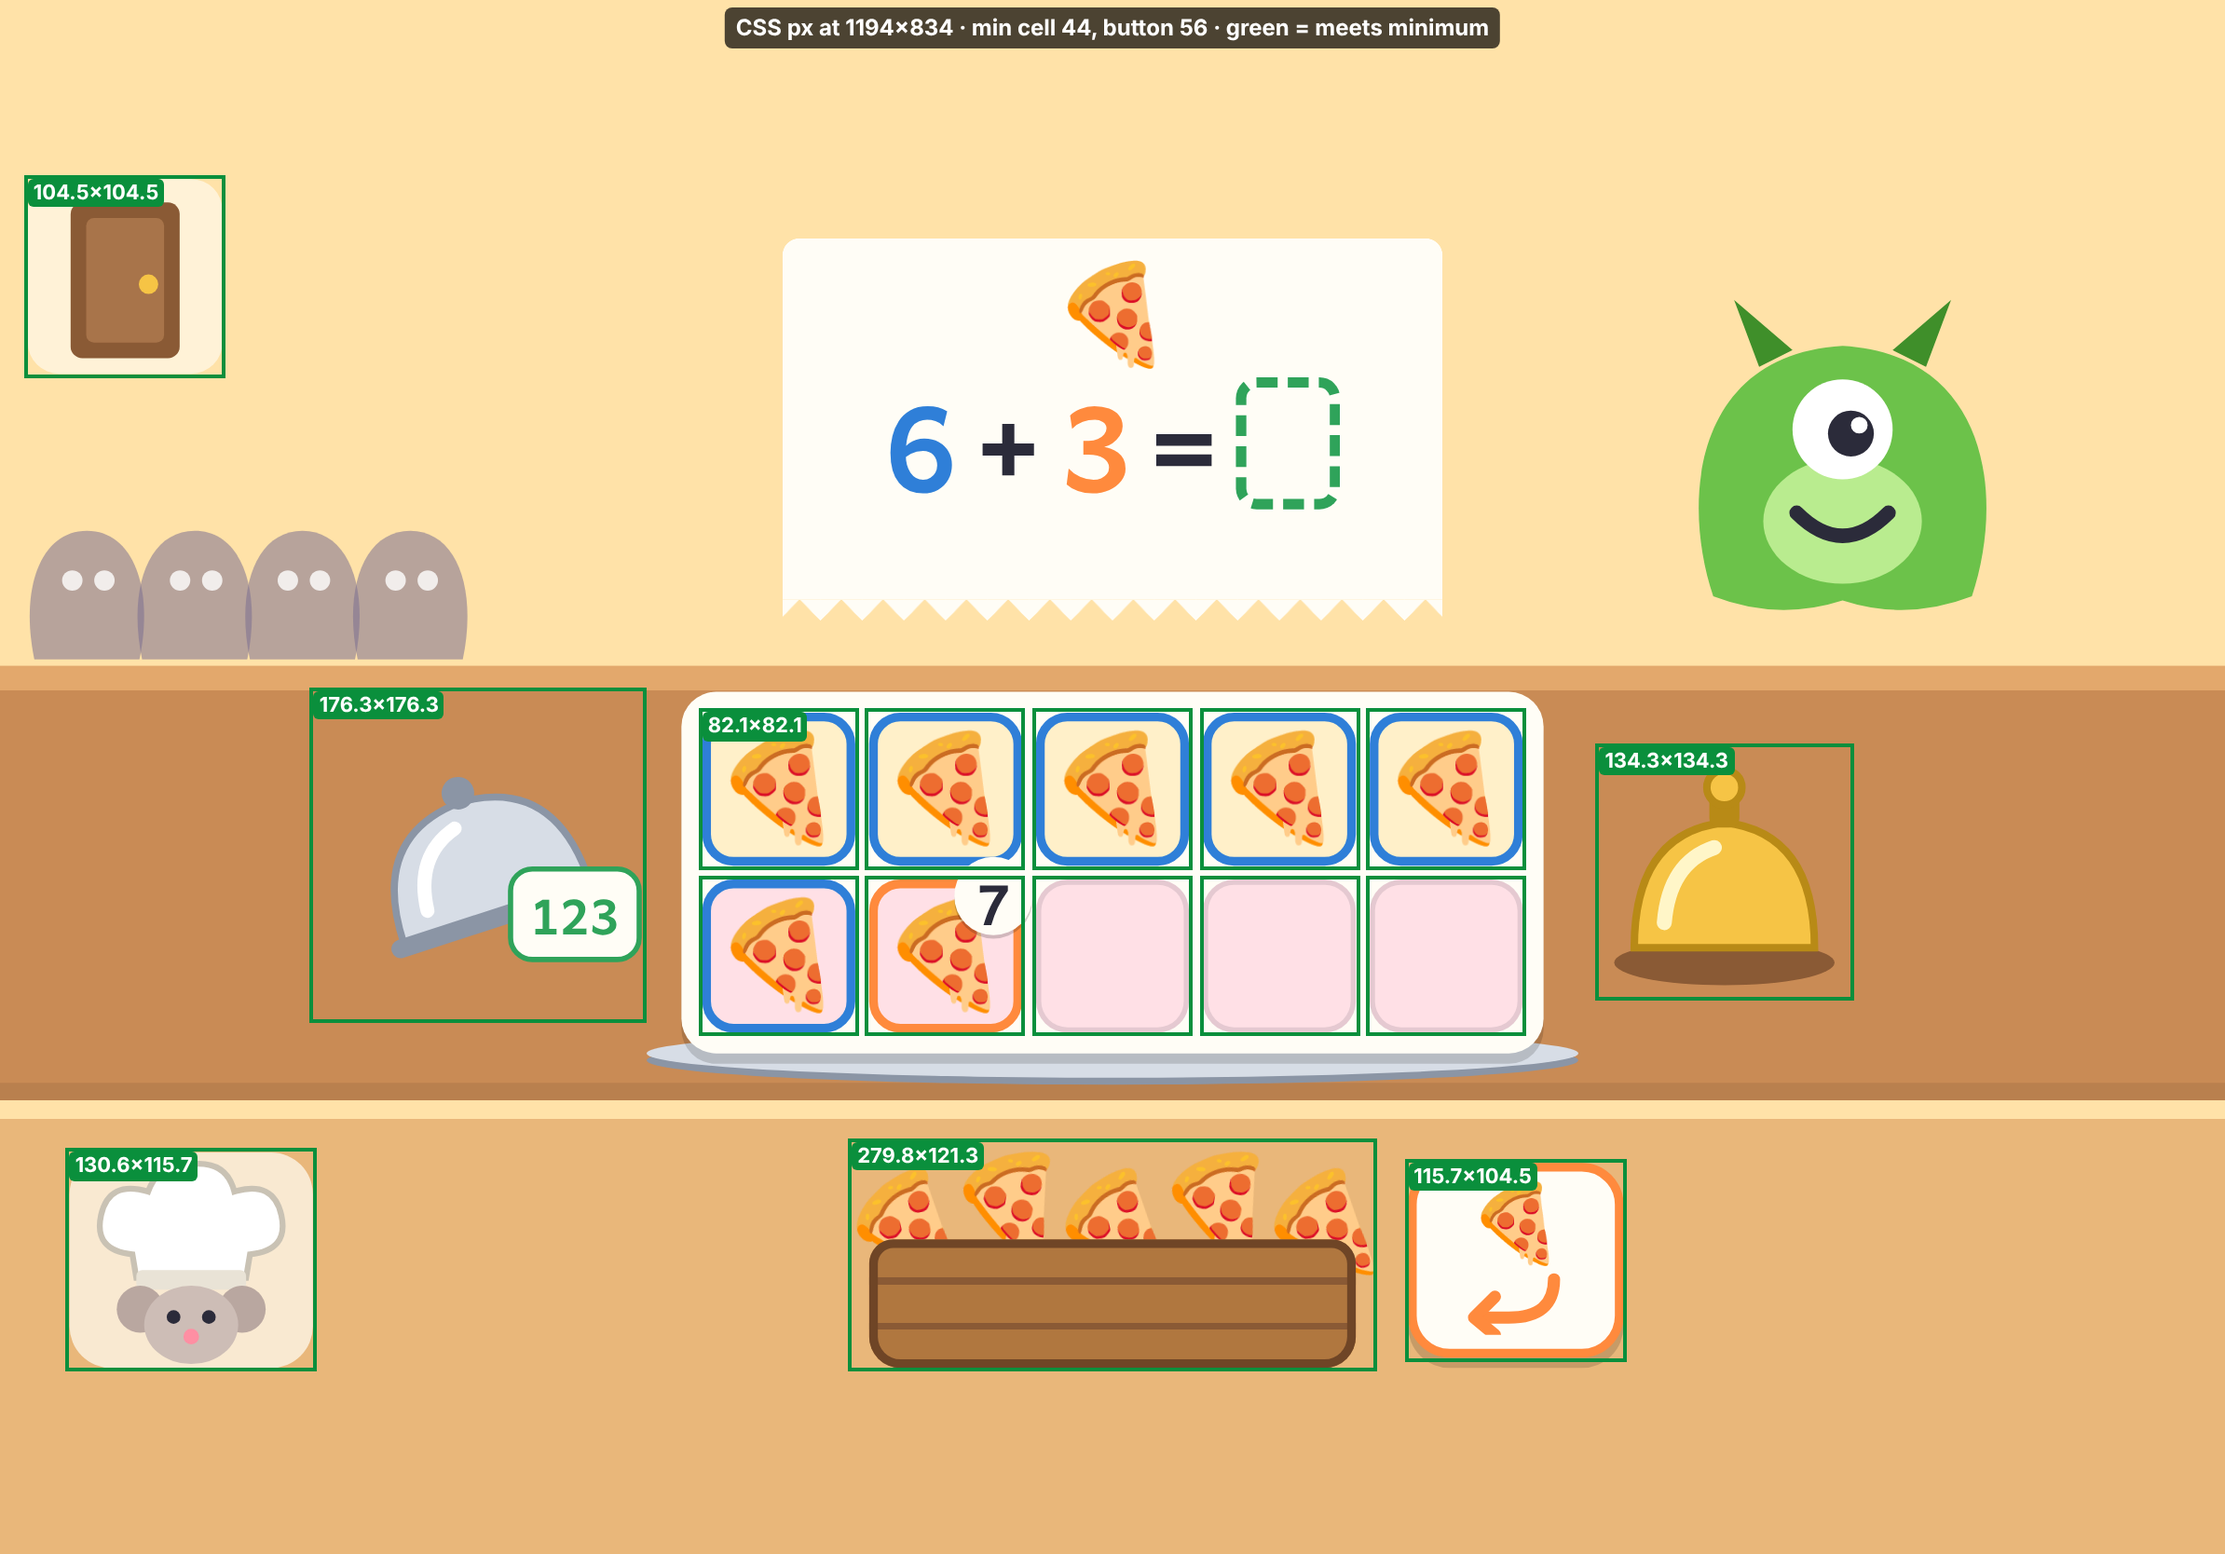
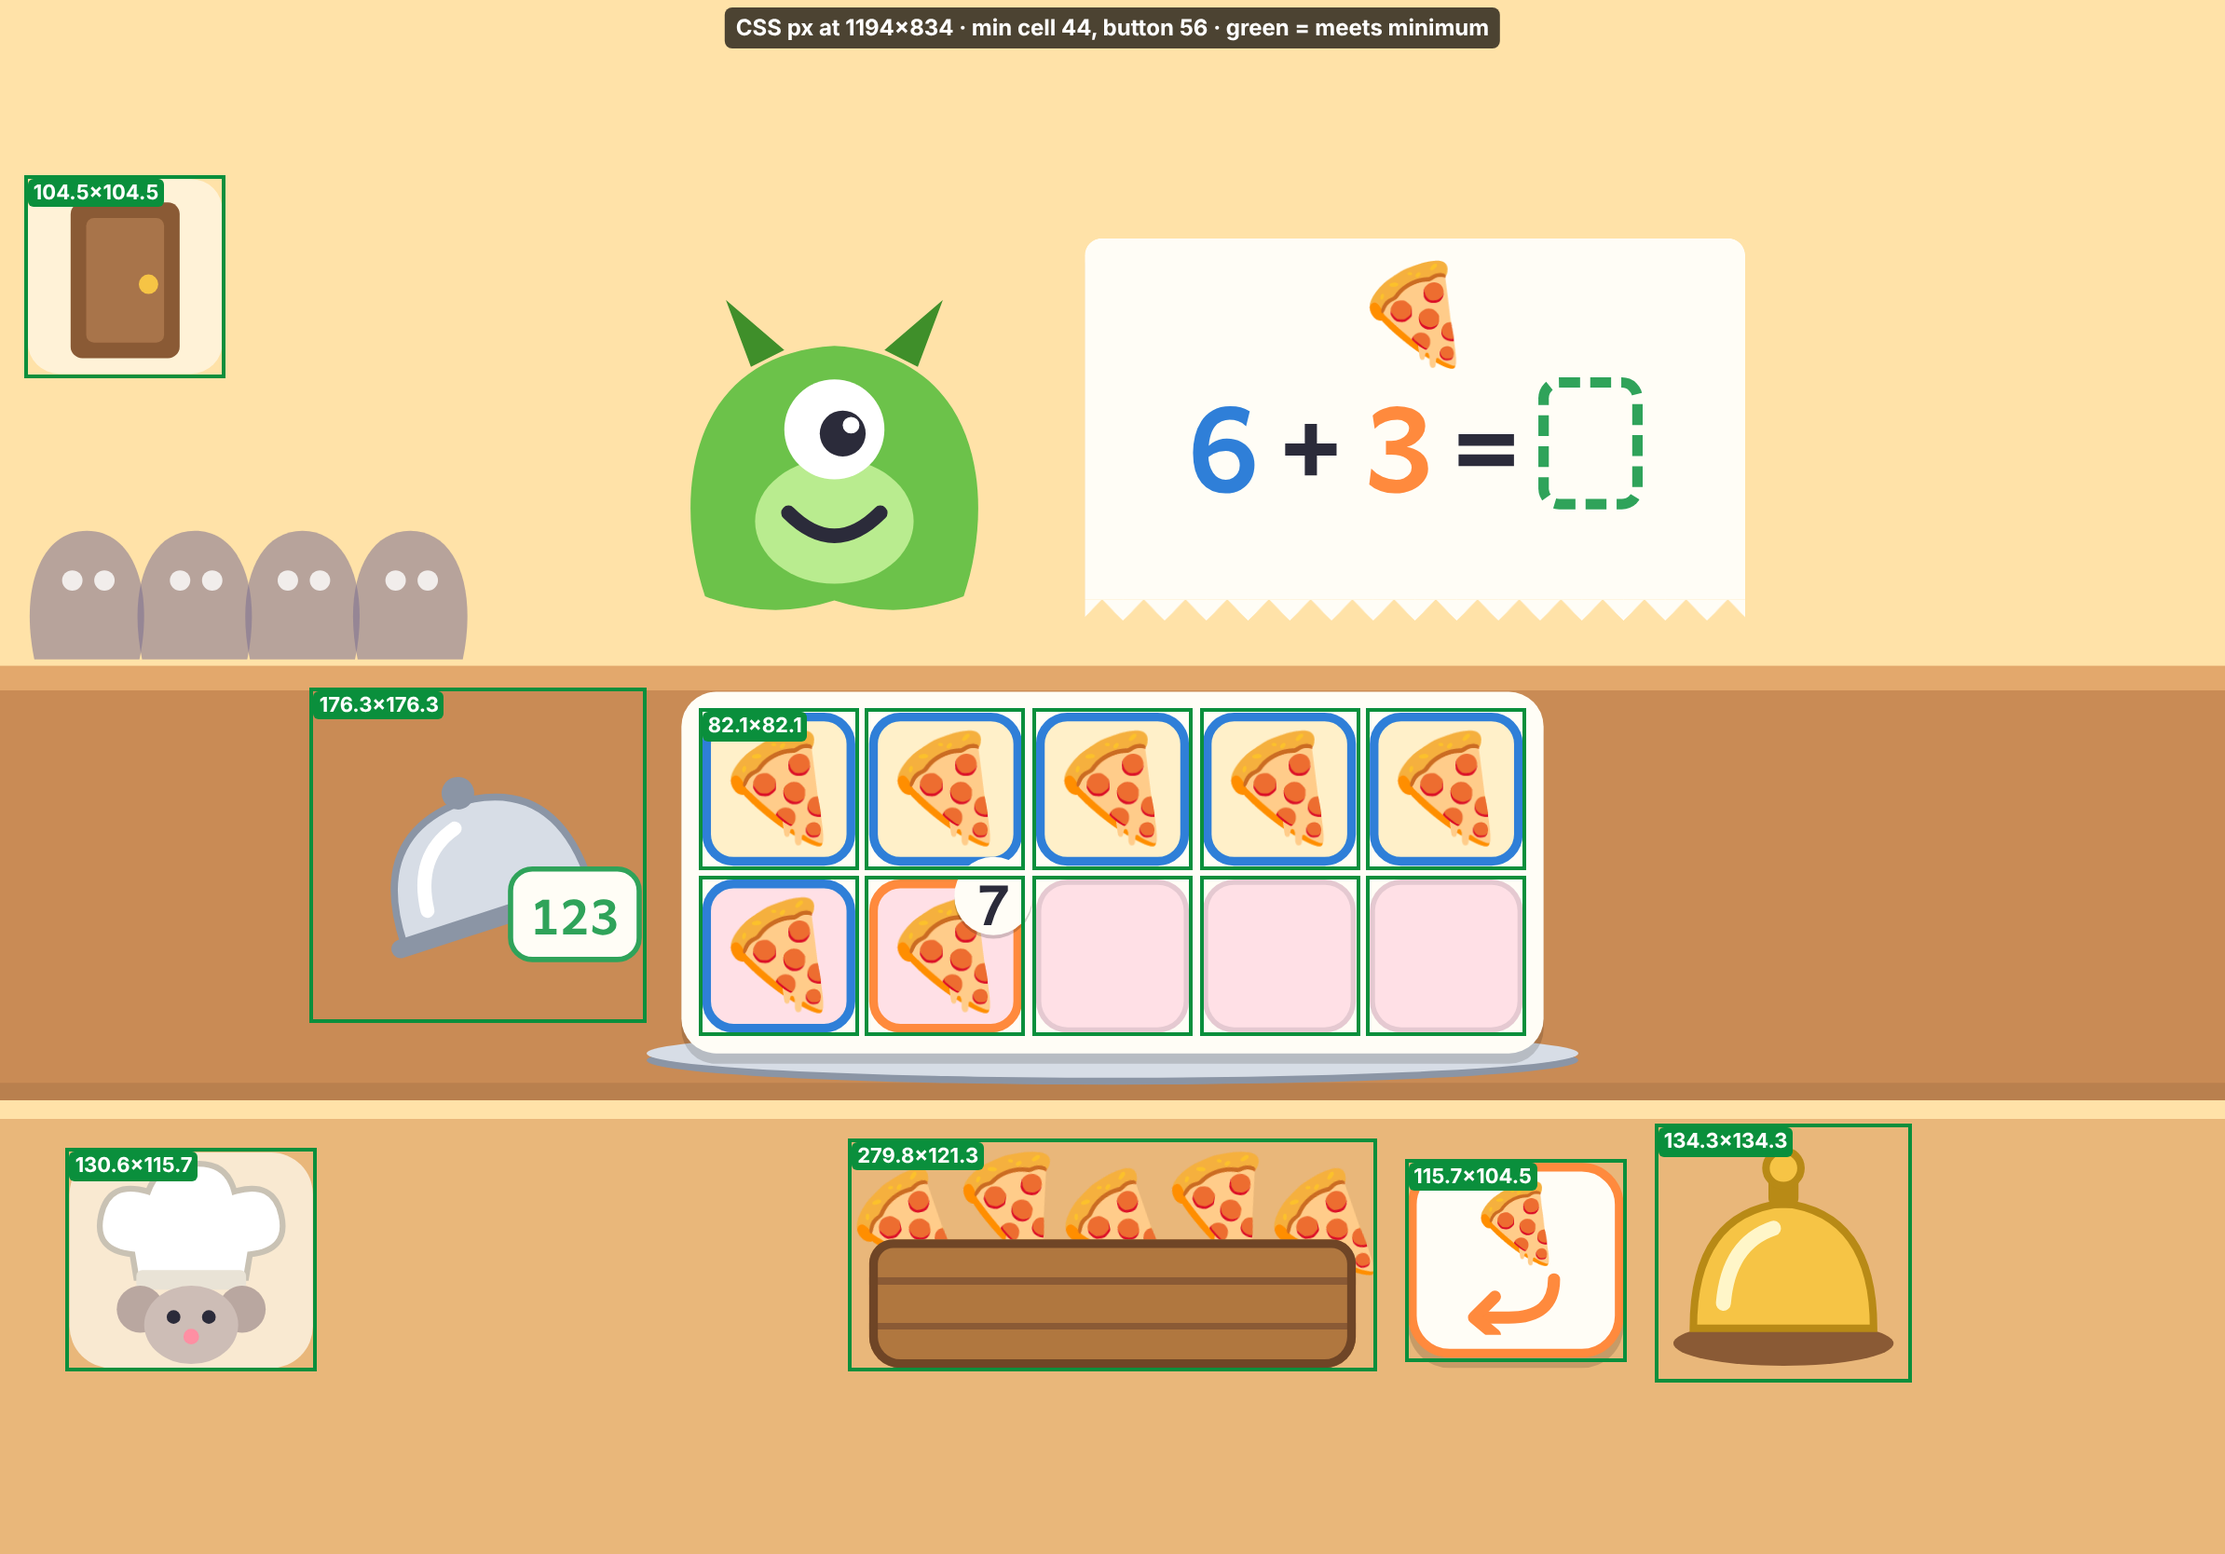
M1 mock rev 3: monster near centre with ticket beside it, bell by the bin
Owner review of mock rev 2 (D64): monster just left of centre with the
ticket right beside it; bell back in the bottom band next to the bin,
right of "take one back" when that shows; two-frame tray centred again;
count-along bubble moved over the monster's spot and spaced so the tail
and heading no longer touch the text. SPEC §5.4 updated.

Claude-Session: https://claude.ai/code/session_01CjmpHxQQBqTPvnFEHCg5yV

diff --git a/src/app/mock/LayoutMock.tsx b/src/app/mock/LayoutMock.tsx
@@ -50,7 +50,7 @@ const tok = (text: string, role?: TicketToken['role'], blank?: boolean): TicketT
 const op = (text: string): TicketToken => ({ text });
 
 function Monster({ aside }: { aside?: boolean }) {
-  const r: Rect = aside ? L.monsterAside : { x: 940, y: 52, w: 240, h: 240 };
+  const r: Rect = aside ? L.monsterAside : L.monsterZone;
   return (
     <div className="monster-slot" style={at(r)}>
       <PlaceholderMonster size={r.w} />
@@ -106,18 +106,16 @@ function Frames2({ cells }: { cells: CellView[] }) {
 function BottomBand({
   food,
   takeBack = true,
-  bell = L.bell,
 }: {
   food: FoodId;
   takeBack?: boolean;
-  bell?: Rect | null;
 }) {
   return (
     <>
       <PipHat rect={L.help} />
       <Bin rect={L.bin} food={food} />
       {takeBack && <TakeBack rect={L.takeBack} food={food} />}
-      {bell && <Bell rect={bell} />}
+      <Bell rect={takeBack ? L.bell : L.bellNoTakeBack} />
     </>
   );
 }
@@ -156,7 +154,7 @@ function Bubble({
           gap={MINI_GAP}
           pad={MINI_PAD}
           x={left + i * (MINI_FRAME.w + 12)}
-          y={50}
+          y={58}
           className="mini"
         />
       ))}
@@ -202,7 +200,7 @@ export function LayoutMock({ frame }: { frame: string }) {
           <Monster />
           <Ticket rect={L.ticket} food="strawberry" tokens={[tok('8', 'prefill'), op('+'), tok('5', 'child'), op('='), tok('?', 'result', true)]} />
           <Frames2 cells={cellsOf('strawberry', 8, 4, { pops: true, popFrom: 8 })} />
-          <BottomBand food="strawberry" bell={L.bellFrames2} />
+          <BottomBand food="strawberry" />
         </Chrome>
       );
     case 'c1-count-together-1':
@@ -224,7 +222,7 @@ export function LayoutMock({ frame }: { frame: string }) {
           <Bubble rect={L.bubble} frames={[cells.slice(0, 10), cells.slice(10)]} caption="… eleven, twelve, thirteen!" />
           <Ticket rect={L.ticket} food="strawberry" tokens={[tok('8', 'prefill'), op('+'), tok('5', 'child'), op('='), tok('?', 'result', true)]} />
           <Frames2 cells={cellsOf('strawberry', 8, 3)} />
-          <BottomBand food="strawberry" bell={L.bellFrames2} />
+          <BottomBand food="strawberry" />
         </Chrome>
       );
     }
@@ -251,7 +249,7 @@ export function LayoutMock({ frame }: { frame: string }) {
         </Chrome>
       );
     case 'g1-s0-pad':
-      // S0 (D48, D63): display row (with the bell) + digit row in the tray band; Pip's hat bottom-left.
+      // S0 (D48, D64): display row + digit row in the tray band; hat and bell in the bottom band.
       return (
         <Chrome>
           <Monster />
@@ -261,7 +259,7 @@ export function LayoutMock({ frame }: { frame: string }) {
           <Backspace rect={L.s0Backspace} />
           <Digits />
           <PipHat rect={L.help} />
-          <Bell rect={L.s0Bell} />
+          <Bell rect={L.bellNoTakeBack} />
         </Chrome>
       );
     case 'g2-s0-cloche':

diff --git a/src/game/service/service.css b/src/game/service/service.css
@@ -270,7 +270,7 @@
   position: absolute;
   left: 0;
   right: 0;
-  top: 142px;
+  top: 148px;
   text-align: center;
   white-space: nowrap;
   font-size: 30px;

diff --git a/docs/SPEC.md b/docs/SPEC.md
@@ -317,10 +317,10 @@ The café exterior/interior as the owned shop decorations, Pip the guide, coin j
 ### 5.3 Menu board
 Chalkboard with two pages (swipe not required; two big tabs "Little Menu"/"Big Menu"; a tab with no built skill is hidden). Each tile 3×3 (9 on Little, 4 on Big): food icon and a sample sentence in chalk (it shows an example of the operations the parent allowed, e.g. a subtraction for A1 set to subtraction only). This is the start of every play session: the tile for the skill played last glows, and A1 on first run. Parent-hidden skills do not render. Tapping a tile starts a service with that skill.
 ### 5.4 Service screen layout (safe box 1280×720)
-- Monster stands behind the counter top-right (x 880–1240, y 40–300; D63); queue of waiting monsters waits by the door at the left edge as small silhouettes (one per remaining order; a requeue adds one when it is queued) — the natural end-of-service cue.
-- **Ticket** (paper receipt, top-centre straight above the tray, x 450–830, y 50–270; D63): equation tokens colored **by their role on the tray, not by position** (D30): blue = the prefilled/locked group (at S1/S0, where nothing is prefilled, the group that would be prefilled at S3), orange = the group the child adds or removes, green = the result; so in `? + 4 = 14` the 4 is blue and the blank orange. Also shape-coded by the blank's dashed box so color is never the only cue. Tap ticket → replays spoken sentence. Food icon beside it.
+- Monster stands behind the counter just left of centre (x 360–600, y 40–300; D64); queue of waiting monsters waits by the door at the left edge as small silhouettes (one per remaining order; a requeue adds one when it is queued) — the natural end-of-service cue.
+- **Ticket** (paper receipt, right beside the monster, x 624–1004, y 50–270; D64): equation tokens colored **by their role on the tray, not by position** (D30): blue = the prefilled/locked group (at S1/S0, where nothing is prefilled, the group that would be prefilled at S3), orange = the group the child adds or removes, green = the result; so in `? + 4 = 14` the 4 is blue and the blank orange. Also shape-coded by the blank's dashed box so color is never the only cue. Tap ticket → replays spoken sentence. Food icon beside it.
 - **Tray** on the counter (y 310–520), centered. In add mode a **take one back** button sits beside the bin; for missing-subtrahend forms (`takenAwayRow`) a small taken-away row sits beside the tray (§3.3). Both slots are fixed in the M1 layout mock (§14) and must not shrink the tray or fall below the tap-size minimums.
-- **Bin** bottom-centre under the tray (y 570–700). **Bell** beside the tray, to its right (D63). **Pip's hat button (Help)** bottom-left. **Door sign (leave)** top-left, small: opens "Take a break?" with two 160-px buttons, *Keep cooking* / *Close the café*. *Close the café* writes a partial `serviceEnd` and goes to Home (§5.8). When the back guard opens the dialog on Home, Menu, Results or Shop, it shows only *Keep cooking* and simply dismisses (D46).
+- **Bin** bottom-centre under the tray (y 570–700). **Bell** in the bottom band next to the bin: right of *take one back* when it shows, otherwise right of the bin (D64). **Pip's hat button (Help)** bottom-left. **Door sign (leave)** top-left, small: opens "Take a break?" with two 160-px buttons, *Keep cooking* / *Close the café*. *Close the café* writes a partial `serviceEnd` and goes to Home (§5.8). When the back guard opens the dialog on Home, Menu, Results or Shop, it shows only *Keep cooking* and simply dismisses (D46).
 - **First-ever service (tutorial, D26):** before the chosen skill's orders, one warm-up order `2 + 1` (cookies, one ten-frame, S3, whatever skill was picked). If the child has not touched anything after 4 s, a ghost hand taps the bin once to show how items are placed; once the item is on the tray, after 4 more idle seconds the ghost hovers over the bell with a tap motion while Pip says what to do. The bell press is always the child's (never auto-serve). The order pays the usual 3 coins (a `coin` event, §11.2) and writes no `attempt` event. Shown once per device (flag in the `meta` store).
 - S0 (D32): the number pad replaces the bin and tray area: **one row of ten digit buttons, 0 through 9 in order** (each ≥ 112 logical px; 10 buttons plus gaps fit in 1280), **one answer display that always accepts up to two digits** (no separate tens/ones slots, so the number of slots never reveals whether the answer is above nine), and a **backspace** button (≥ 112). The ordered digit row doubles as a small number line. **Peek** is the concrete reveal; pressing it before the first serve counts as Help (`afterHint` if then correct). Pip's hat (Help) stays at S0 and follows §3.4. The bell is disabled while the answer display is empty (D41).
 - **Idle nudge (all stages):** after about 20 s without input while building, the spoken ticket repeats once per order (spoken only; no countdown, no visual cue). At S3 Pip's hat still pulses after 10 s idle (§3.2).

diff --git a/docs/DECISIONS.md b/docs/DECISIONS.md
@@ -308,10 +308,15 @@ What: the service layout is one table, `SERVICE` in `src/app/metrics.ts`. (a) **
 Why: D48's band heights could not hold 112-px buttons; §3.3/§5.4 left the slots and the Peek return path to the mock.
 How to revisit: owner's review of `docs/screens/M1/mock/`; geometry changes are edits to `SERVICE` only.
 
-**D63. Service layout after the owner's mock review: ticket centred, monster right, bell beside the tray (amends SPEC §5.4 and D62).**
+**D63. Service layout after the owner's mock review: ticket centred, monster right, bell beside the tray (amends SPEC §5.4 and D62; monster, ticket and bell positions superseded by D64).**
 What: (a) The **ticket** moves to the centre, straight above the tray (x 450–830); the **monster** stands at the right (x 880–1240). (b) The **waiting line stays on the left by the door**, so nothing else moves: monsters wait by the door and walk to the counter on the right. (c) The **bell sits beside the tray**, vertically centred on it (frames1: x 920–1064); at S0 it joins the Peek · display · backspace row; for `frames2` (M5) the two-frame tray shifts left (x 40–1056) to make room. (d) With the bell on the right, the **taken-away row** and the **lifted cloche lid** move to the left of the tray; the **bin** is centred under the tray with take one back to its right. (e) The **CountTogether bubble** sits in the monster zone at one width for one or two frames (428 px), so the counting line never wraps; the monster shrinks to 64 px below the bubble's tail. The tail is drawn in the bubble's own colours (the first mock showed a stray grey triangle, a badly drawn tail).
 Why: owner feedback 2026-11-05 on the M1 mock: the problem should be centred above the tray, and the bell next to the tray makes "the bell sends the food" obvious.
 How to revisit: positions are the `SERVICE` table in `src/app/metrics.ts`. If the line by the door reads poorly once monsters walk across (M2), the fallback is a small row of plate icons by the door instead of silhouettes.
+
+**D64. Monster just left of centre with the ticket beside it; bell back in the bottom band next to the bin (amends D63).**
+What: (a) The **monster** stands just left of centre (x 360–600) and the **ticket** sits right beside it (x 624–1004), so customer and order read as one. The waiting line stays by the door on the left. (b) The **bell** returns to the bottom band, always next to the bin: right of **take one back** when that button shows (add mode, x 954–1098), otherwise straight right of the bin (remove mode and S0, x 810–954). At S0 there is no bin on screen, but the bell keeps that same spot so it never jumps around between stages. (c) The two-frame tray (M5) is centred again. (d) The CountTogether bubble now sits over the monster's spot (x 200–628, y 8–218); the monster shrinks below its tail. Unchanged from D63: bin centred under the tray, taken-away row and lifted cloche lid left of the tray, one bubble width for one or two frames.
+Why: owner feedback 2026-11-05 on mock rev 2: the child should feel they are serving the monster, so it belongs near the middle; the bell should sit by the basket, not by the tray or at the far right.
+How to revisit: the `SERVICE` table in `src/app/metrics.ts`.
 
 <!-- New decisions go above this line, numbered one higher than the highest existing D<n>. -->
 

diff --git a/docs/screens/M1/mock/tap-sizes.md b/docs/screens/M1/mock/tap-sizes.md
@@ -48,7 +48,7 @@ Minimums (SPEC §2.2): tray cells ≥ 44 CSS px, buttons ≥ 56 CSS px, measured
 | g1-s0-pad | 1194x834 | digit-8 | 104.5 × 104.5 | yes |
 | g1-s0-pad | 1194x834 | digit-9 | 104.5 × 104.5 | yes |
 | g1-s0-pad | 1194x834 | help | 130.6 × 115.7 | yes |
-| g1-s0-pad | 1194x834 | bell | 111.9 × 111.9 | yes |
+| g1-s0-pad | 1194x834 | bell | 134.3 × 134.3 | yes |
 | g2-s0-cloche | 1194x834 | door | 104.5 × 104.5 | yes |
 | g2-s0-cloche | 1194x834 | tray cell | 82.1 × 82.1 | yes |
 | g2-s0-cloche | 1194x834 | cloche-lid | 176.3 × 176.3 | yes |
@@ -100,7 +100,7 @@ Minimums (SPEC §2.2): tray cells ≥ 44 CSS px, buttons ≥ 56 CSS px, measured
 | g1-s0-pad | 844x390 | digit-8 | 60.7 × 60.7 | yes |
 | g1-s0-pad | 844x390 | digit-9 | 60.7 × 60.7 | yes |
 | g1-s0-pad | 844x390 | help | 75.8 × 67.2 | yes |
-| g1-s0-pad | 844x390 | bell | 65.0 × 65.0 | yes |
+| g1-s0-pad | 844x390 | bell | 78.0 × 78.0 | yes |
 | g2-s0-cloche | 844x390 | door | 60.7 × 60.7 | yes |
 | g2-s0-cloche | 844x390 | tray cell | 47.7 × 47.7 | yes |
 | g2-s0-cloche | 844x390 | cloche-lid | 102.4 × 102.4 | yes |
